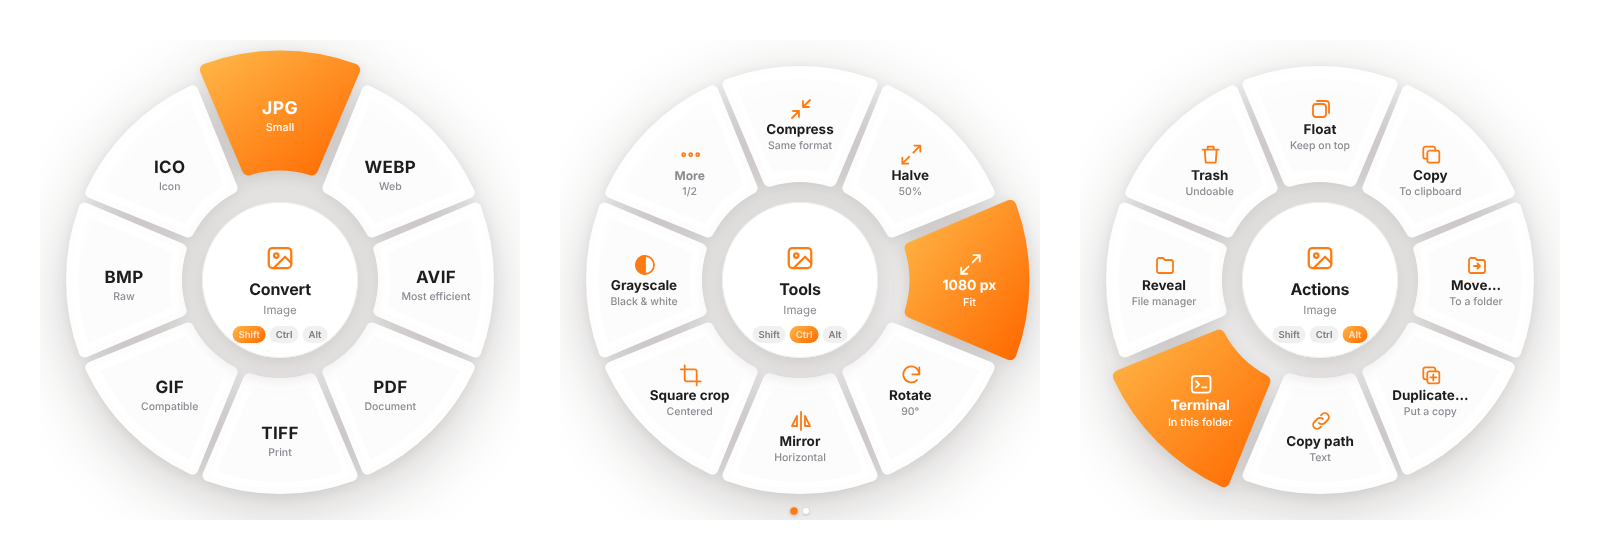
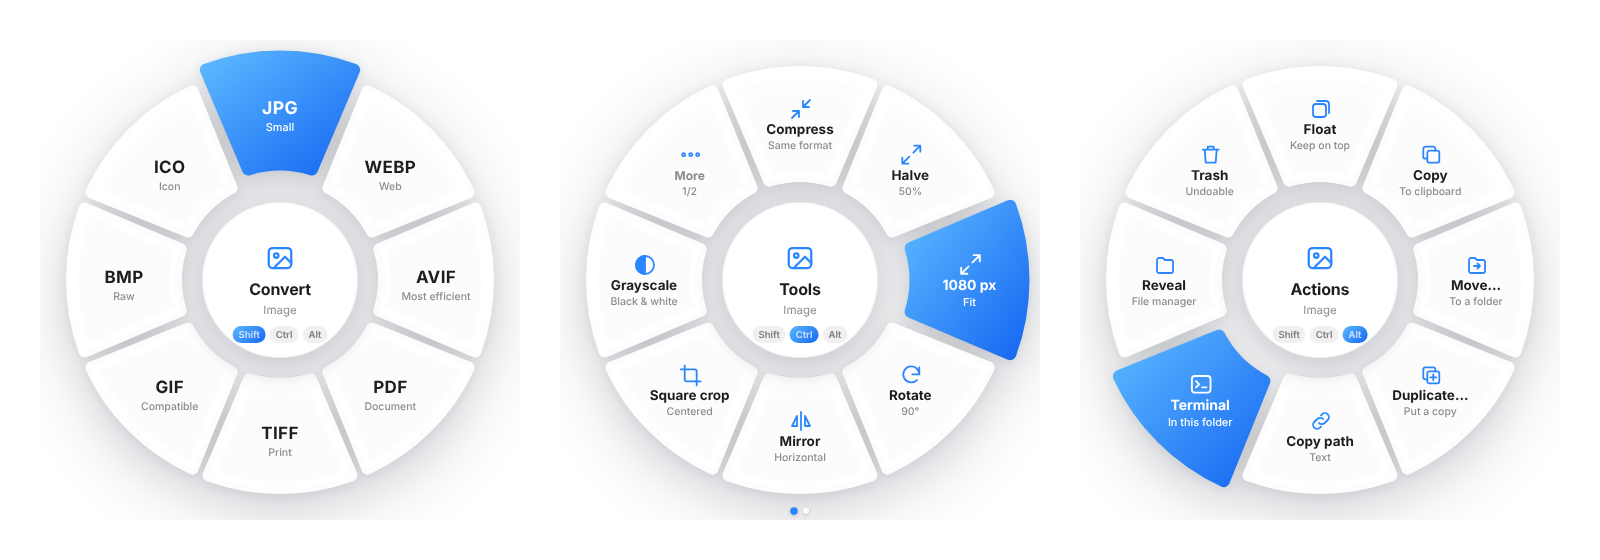
Replace the tangerine with a blue glass drop; blue accent
- New app icon (assets/icon.svg → icon.png): a glass water drop with
  depth, refraction and reflections on a dark tile, with motion streaks.
- New small logo (assets/logo.svg) for the tray (tray.png, tray@2x.png),
  the Wayland bubble and the wheel's idle centre.
- The accent colour moves from orange to blue across the wheel, bubble,
  float window and Markdown→HTML output; shadows are cool instead of warm.
- README screenshots retaken with the new colours.

Claude-Session: https://claude.ai/code/session_01JTcCnwE4RzxDd7YYHU44zU

diff --git a/src/renderer/icons.js b/src/renderer/icons.js
@@ -46,5 +46,5 @@ window.ICONS = {
 window.icon = (name, size = 20, extra = '') =>
   `<svg class="ic ${extra}" width="${size}" height="${size}" viewBox="0 0 24 24" fill="none" stroke="currentColor" stroke-width="1.8" stroke-linecap="round" stroke-linejoin="round">${window.ICONS[name] || window.ICONS.other}</svg>`;
 
-// Mandalina logosu: turuncu daire + yaprak
-window.TANGERINE = `<svg viewBox="0 0 64 64" width="100%" height="100%"><defs><radialGradient id="tg" cx="35%" cy="30%" r="75%"><stop offset="0" stop-color="#FFC15A"/><stop offset=".55" stop-color="#FF8A1F"/><stop offset="1" stop-color="#F25C05"/></radialGradient></defs><circle cx="32" cy="36" r="22" fill="url(#tg)"/><path d="M32 15c0-5 4-9 11-9-1 6-5 9-11 9z" fill="#3DBE6B"/><path d="M32 14v4" stroke="#2E8B4F" stroke-width="2.5" stroke-linecap="round"/><ellipse cx="24" cy="28" rx="5" ry="3" fill="#fff" opacity=".35" transform="rotate(-30 24 28)"/></svg>`;
+// Damla logosu (assets/logo.svg ile aynı)
+window.LOGO = `<svg viewBox="0 0 64 64" width="100%" height="100%"><defs><path id="sd-drop" d="M-12 -298 Q0 -326 12 -298 C46 -244 145 -82 183 -19 A214 214 0 1 1 -183 -19 C-145 -82 -46 -244 -12 -298 Z"/><path id="sd-lens" transform="translate(26 -4) scale(.78)" d="M-12 -298 Q0 -326 12 -298 C46 -244 145 -82 183 -19 A214 214 0 1 1 -183 -19 C-145 -82 -46 -244 -12 -298 Z"/><clipPath id="sd-dclip"><use href="#sd-drop"/></clipPath><clipPath id="sd-lclip"><use href="#sd-lens"/></clipPath><radialGradient id="sd-body" cx="50" cy="130" r="380" fx="70" fy="170" gradientUnits="userSpaceOnUse"><stop offset="0" stop-color="#6ff0ff"/><stop offset=".3" stop-color="#26b0ff"/><stop offset=".65" stop-color="#0e6cf2"/><stop offset="1" stop-color="#05308f"/></radialGradient><radialGradient id="sd-lensFill" cx="90" cy="150" r="300" gradientUnits="userSpaceOnUse"><stop offset="0" stop-color="#9af4ff" stop-opacity=".95"/><stop offset=".45" stop-color="#3fc4ff" stop-opacity=".8"/><stop offset="1" stop-color="#1468f0" stop-opacity=".55"/></radialGradient><linearGradient id="sd-window" x1="0" y1="0" x2="0" y2="1"><stop offset="0" stop-color="#fff" stop-opacity=".98"/><stop offset=".7" stop-color="#fff" stop-opacity=".35"/><stop offset="1" stop-color="#fff" stop-opacity=".05"/></linearGradient><linearGradient id="sd-rim" x1="0" y1="0" x2="1" y2="1"><stop offset="0" stop-color="#bfe8ff" stop-opacity=".75"/><stop offset=".45" stop-color="#4ab6ff" stop-opacity=".25"/><stop offset="1" stop-color="#d4f7ff" stop-opacity=".95"/></linearGradient><filter id="sd-b24" x="-50%" y="-50%" width="200%" height="200%"><feGaussianBlur stdDeviation="24"/></filter><filter id="sd-b12" x="-50%" y="-50%" width="200%" height="200%"><feGaussianBlur stdDeviation="12"/></filter><filter id="sd-b5" x="-50%" y="-50%" width="200%" height="200%"><feGaussianBlur stdDeviation="5"/></filter><filter id="sd-b2" x="-50%" y="-50%" width="200%" height="200%"><feGaussianBlur stdDeviation="2"/></filter></defs><g transform="translate(32 34) rotate(-8) scale(.088)"><use href="#sd-drop" fill="url(#sd-body)"/><g clip-path="url(#sd-dclip)"><use href="#sd-drop" fill="none" stroke="#021457" stroke-width="80" opacity=".55" filter="url(#sd-b24)"/><use href="#sd-drop" transform="translate(-30 -20)" fill="none" stroke="#021457" stroke-width="60" opacity=".45" filter="url(#sd-b24)"/><use href="#sd-lens" fill="url(#sd-lensFill)" filter="url(#sd-b2)"/><g clip-path="url(#sd-lclip)"><use href="#sd-lens" transform="translate(-18 -22)" fill="none" stroke="#0a3cb8" stroke-width="40" opacity=".55" filter="url(#sd-b12)"/></g><ellipse cx="60" cy="226" rx="140" ry="54" transform="rotate(-12 60 226)" fill="#c9fbff" opacity=".85" filter="url(#sd-b24)"/><path d="M-150 214 C-90 286 90 292 170 186" fill="none" stroke="#effeff" stroke-width="7" stroke-linecap="round" opacity=".9" filter="url(#sd-b2)"/><path d="M-14 -262 C-44 -214 -96 -128 -122 -46 L-86 -36 C-62 -114 -22 -196 4 -240 Z" fill="url(#sd-window)" filter="url(#sd-b2)"/><path d="M-130 -20 L-94 -10 C-100 22 -100 52 -94 84 L-130 78 C-138 46 -138 14 -130 -20 Z" fill="#fff" opacity=".45" filter="url(#sd-b2)"/><path d="M150 -30 C188 22 206 92 198 168" fill="none" stroke="#fff" stroke-width="12" stroke-linecap="round" opacity=".4" filter="url(#sd-b5)"/><circle cx="118" cy="-6" r="15" fill="#fff" filter="url(#sd-b2)"/><circle cx="140" cy="26" r="6" fill="#fff" opacity=".85"/></g><use href="#sd-drop" fill="none" stroke="url(#sd-rim)" stroke-width="12"/></g></svg>`;

diff --git a/src/renderer/wheel.css b/src/renderer/wheel.css
@@ -7,9 +7,9 @@
   --center: rgba(255, 255, 255, 0.97);
   --chip: rgba(0, 0, 0, 0.06);
   --chip-text: #55555c;
-  --shadow: rgba(30, 20, 10, 0.22);
-  --accent: #ff7a12;
-  --accent-2: #ff5a00;
+  --shadow: rgba(10, 20, 40, 0.22);
+  --accent: #2a86ff;
+  --accent-2: #0b57e0;
   --ok: #2fb36b;
   --err: #e5484d;
   --ease-spring: cubic-bezier(0.2, 1.35, 0.4, 1);
@@ -113,7 +113,7 @@ html, body {
 #catIcon.logo { width: 40px; height: 40px; }
 #title { font-size: 16px; font-weight: 700; letter-spacing: -0.01em; }
 #subtitle { font-size: 11.5px; color: var(--muted); max-width: 120px; white-space: nowrap; overflow: hidden; text-overflow: ellipsis; }
-#pct { font-size: 28px; font-weight: 750; letter-spacing: -0.03em; font-variant-numeric: tabular-nums; background: linear-gradient(135deg, #ffb547, #ff5a00); -webkit-background-clip: text; color: transparent; }
+#pct { font-size: 28px; font-weight: 750; letter-spacing: -0.03em; font-variant-numeric: tabular-nums; background: linear-gradient(135deg, #5cb8ff, #0b57e0); -webkit-background-clip: text; color: transparent; }
 #busyLabel { font-size: 11.5px; color: var(--muted); }
 
 /* ---------- Mod çipleri (merkezin altında) ---------- */
@@ -127,7 +127,7 @@ html, body {
   display: flex; gap: 3px; align-items: center; transition: background 200ms ease, color 200ms ease;
 }
 .mode kbd { font: inherit; opacity: 0.75; }
-.mode.active { background: linear-gradient(135deg, #ffb547, #ff6a00); color: #fff; }
+.mode.active { background: linear-gradient(135deg, #5cb8ff, #1668f2); color: #fff; }
 
 #pages { position: absolute; left: 50%; bottom: 6px; transform: translateX(-50%); display: flex; gap: 6px; }
 #pages i { width: 6px; height: 6px; border-radius: 50%; background: var(--seg); box-shadow: 0 1px 3px var(--shadow); transition: background 200ms ease, transform 200ms ease; }
@@ -147,7 +147,7 @@ html, body {
 
 #resultIcon {
   width: 52px; height: 52px; margin: 0 auto 10px; border-radius: 50%; display: grid; place-items: center; color: #fff;
-  background: linear-gradient(135deg, #ffb547, #ff6a00); box-shadow: 0 8px 20px rgba(255, 106, 0, 0.35);
+  background: linear-gradient(135deg, #5cb8ff, #1668f2); box-shadow: 0 8px 20px rgba(22, 104, 242, 0.35);
 }
 #resultIcon svg { width: 28px; height: 28px; stroke-width: 2.6; }
 #resultIcon .ic path { stroke-dasharray: 30; stroke-dashoffset: 30; animation: draw 420ms 160ms var(--ease-out) forwards; }
@@ -160,13 +160,13 @@ html, body {
   font: inherit; font-size: 12px; font-weight: 600; border: 0; border-radius: 999px; padding: 7px 12px; cursor: pointer;
   background: var(--chip); color: var(--text); transition: transform 150ms var(--ease-spring), background 150ms ease;
 }
-#resultActions button:hover { background: linear-gradient(135deg, #ffb547, #ff6a00); color: #fff; transform: translateY(-1px); }
+#resultActions button:hover { background: linear-gradient(135deg, #5cb8ff, #1668f2); color: #fff; transform: translateY(-1px); }
 #resultHint { font-size: 10.5px; color: var(--muted); margin-top: 10px; }
 #result.noout #resultActions, #result.noout #resultHint, #result.error #resultHint, #result.error #btnOpen { display: none; }
 
-/* Mandalina patlaması */
+/* Damla patlaması */
 #burst { position: absolute; left: 50%; top: 50%; width: 0; height: 0; pointer-events: none; }
-#burst i { position: absolute; width: 10px; height: 10px; margin: -5px; border-radius: 50%; background: linear-gradient(135deg, #ffc15a, #ff6a00); animation: fly 700ms var(--ease-out) forwards; }
+#burst i { position: absolute; width: 10px; height: 10px; margin: -5px; border-radius: 50%; background: linear-gradient(135deg, #7cc8ff, #1668f2); animation: fly 700ms var(--ease-out) forwards; }
 #burst i.leaf { background: #3dbe6b; border-radius: 0 60% 0 60%; }
 @keyframes fly {
   from { transform: translate(0, 0) scale(1); opacity: 1; }

diff --git a/src/renderer/float.html b/src/renderer/float.html
@@ -5,7 +5,7 @@
 <meta http-equiv="Content-Security-Policy" content="default-src 'self'; script-src 'self'; style-src 'self' 'unsafe-inline'; img-src file: data:; media-src file:">
 <title>ShiftDrop</title>
 <style>
-  :root { --bg: rgba(255,255,255,.96); --text: #1d1d1f; --muted: #8b8b92; --shadow: rgba(30,20,10,.25); --chip: rgba(0,0,0,.06); }
+  :root { --bg: rgba(255,255,255,.96); --text: #1d1d1f; --muted: #8b8b92; --shadow: rgba(10,20,40,.25); --chip: rgba(0,0,0,.06); }
   @media (prefers-color-scheme: dark) { :root { --bg: rgba(34,34,38,.96); --text: #f5f5f7; --muted: #9a9aa2; --shadow: rgba(0,0,0,.55); --chip: rgba(255,255,255,.08); } }
   html, body { margin: 0; height: 100%; background: transparent; overflow: hidden; font-family: "Inter", "Cantarell", "Ubuntu", system-ui, sans-serif; color: var(--text); user-select: none; }
   #card {
@@ -16,12 +16,12 @@
   @keyframes pop { from { transform: scale(.6); opacity: 0; } to { transform: scale(1); opacity: 1; } }
   #preview { flex: 1; display: grid; place-items: center; margin: 10px 10px 0; border-radius: 14px; overflow: hidden; background: var(--chip); -webkit-app-region: no-drag; cursor: grab; }
   #preview img, #preview video { max-width: 100%; max-height: 100%; object-fit: contain; display: block; }
-  #preview .big { width: 64px; height: 64px; color: #ff7a12; }
+  #preview .big { width: 64px; height: 64px; color: #2a86ff; }
   #preview .ext { font-weight: 800; font-size: 13px; color: var(--muted); margin-top: 4px; text-align: center; }
   #bar { display: flex; align-items: center; gap: 6px; padding: 8px 10px 10px 14px; }
   #name { flex: 1; font-size: 12px; font-weight: 600; white-space: nowrap; overflow: hidden; text-overflow: ellipsis; }
   button { -webkit-app-region: no-drag; border: 0; background: var(--chip); color: var(--text); width: 26px; height: 26px; border-radius: 50%; display: grid; place-items: center; cursor: pointer; transition: background 150ms ease; }
-  button:hover { background: linear-gradient(135deg,#ffb547,#ff6a00); color: #fff; }
+  button:hover { background: linear-gradient(135deg,#5cb8ff,#1668f2); color: #fff; }
   button svg { width: 14px; height: 14px; }
 </style>
 </head>

diff --git a/src/engine.js b/src/engine.js
@@ -502,7 +502,7 @@ function markdownToHtml(md, title) {
     if (/^```/.test(line)) { flushPara(); closeList(); code = ''; } else if ((m = line.match(/^(#{1,6})\s+(.*)/))) { flushPara(); closeList(); html += `<h${m[1].length}>${inline(m[2])}</h${m[1].length}>\n`; } else if ((m = line.match(/^\s*[-*+]\s+(.*)/))) { flushPara(); if (list !== 'ul') { closeList(); html += '<ul>\n'; list = 'ul'; } html += `<li>${inline(m[1])}</li>\n`; } else if ((m = line.match(/^\s*\d+[.)]\s+(.*)/))) { flushPara(); if (list !== 'ol') { closeList(); html += '<ol>\n'; list = 'ol'; } html += `<li>${inline(m[1])}</li>\n`; } else if ((m = line.match(/^>\s?(.*)/))) { flushPara(); closeList(); html += `<blockquote>${inline(m[1])}</blockquote>\n`; } else if (/^(-{3,}|\*{3,})$/.test(line.trim())) { flushPara(); closeList(); html += '<hr>\n'; } else if (!line.trim()) { flushPara(); closeList(); } else para.push(line.trim());
   }
   flushPara(); closeList();
-  return `<!doctype html>\n<html><head><meta charset="utf-8"><title>${esc(title)}</title>\n<style>body{font:16px/1.65 system-ui,sans-serif;max-width:760px;margin:48px auto;padding:0 20px;color:#222}code{background:#f3f1ee;padding:2px 5px;border-radius:4px}pre{background:#f3f1ee;padding:14px;border-radius:8px;overflow:auto}blockquote{border-left:3px solid #ff8a1f;margin:0;padding-left:14px;color:#555}</style></head>\n<body>\n${html}</body></html>\n`;
+  return `<!doctype html>\n<html><head><meta charset="utf-8"><title>${esc(title)}</title>\n<style>body{font:16px/1.65 system-ui,sans-serif;max-width:760px;margin:48px auto;padding:0 20px;color:#222}code{background:#f3f1ee;padding:2px 5px;border-radius:4px}pre{background:#f3f1ee;padding:14px;border-radius:8px;overflow:auto}blockquote{border-left:3px solid #2a86ff;margin:0;padding-left:14px;color:#555}</style></head>\n<body>\n${html}</body></html>\n`;
 }
 
 async function documentConvert(src, to, dir, base) {

diff --git a/src/renderer/bubble.html b/src/renderer/bubble.html
@@ -5,7 +5,7 @@
 <meta http-equiv="Content-Security-Policy" content="default-src 'self'; script-src 'self'; style-src 'self' 'unsafe-inline'">
 <title>ShiftDrop balon</title>
 <style>
-  :root { --bg: rgba(255,255,255,.95); --shadow: rgba(30,20,10,.25); --muted: #8b8b92; }
+  :root { --bg: rgba(255,255,255,.95); --shadow: rgba(10,20,40,.25); --muted: #8b8b92; }
   @media (prefers-color-scheme: dark) { :root { --bg: rgba(38,38,42,.95); --shadow: rgba(0,0,0,.55); --muted: #9a9aa2; } }
   html, body { margin: 0; width: 64px; height: 132px; overflow: hidden; background: transparent; user-select: none; }
   #tab {
@@ -18,9 +18,9 @@
   body:hover #tab { right: -14px; }
   body.hot #tab { right: -6px; transform: scale(1.08); }
   body.hot #logo { transform: rotate(-18deg) scale(1.15); }
-  #pulse { position: absolute; inset: 0; border-radius: inherit; box-shadow: 0 0 0 0 rgba(255,122,18,.5); }
+  #pulse { position: absolute; inset: 0; border-radius: inherit; box-shadow: 0 0 0 0 rgba(42,134,255,.5); }
   body.hot #pulse { animation: pulse 900ms ease-out infinite; }
-  @keyframes pulse { to { box-shadow: 0 0 0 14px rgba(255,122,18,0); } }
+  @keyframes pulse { to { box-shadow: 0 0 0 14px rgba(42,134,255,0); } }
 </style>
 </head>
 <body>

diff --git a/src/renderer/wheel.html b/src/renderer/wheel.html
@@ -11,12 +11,12 @@
     <svg id="ring" viewBox="0 0 480 480" width="480" height="480" aria-hidden="true">
       <defs>
         <linearGradient id="accent" x1="0" y1="0" x2="1" y2="1">
-          <stop offset="0" stop-color="#FFB547"/>
-          <stop offset="1" stop-color="#FF6A00"/>
+          <stop offset="0" stop-color="#5cb8ff"/>
+          <stop offset="1" stop-color="#1668f2"/>
         </linearGradient>
         <linearGradient id="progressGrad" x1="0" y1="0" x2="1" y2="1">
-          <stop offset="0" stop-color="#FFC15A"/>
-          <stop offset="1" stop-color="#FF5A00"/>
+          <stop offset="0" stop-color="#7cc8ff"/>
+          <stop offset="1" stop-color="#0b57e0"/>
         </linearGradient>
       </defs>
       <g id="segments"></g>

diff --git a/src/renderer/wheel.js b/src/renderer/wheel.js
@@ -170,7 +170,7 @@ function renderModes() {
   $('title').textContent = st.data && !st.data.items.length && st.phase !== 'pick' ? t('Bırak') : MODE_NAME[st.mode];
   const cat = st.data?.cat || 'other';
   const icon = $('catIcon');
-  if (!st.data) { icon.className = 'logo'; icon.innerHTML = window.TANGERINE; } else { icon.className = ''; icon.innerHTML = window.icon(cat, 30); }
+  if (!st.data) { icon.className = 'logo'; icon.innerHTML = window.LOGO; } else { icon.className = ''; icon.innerHTML = window.icon(cat, 30); }
   let sub;
   if (st.phase === 'pick' && !st.paths) sub = t('Dosyayı buraya bırak');
   else if (!st.data) sub = t('Dosya bekleniyor');

diff --git a/src/renderer/bubble.js b/src/renderer/bubble.js
@@ -1,6 +1,6 @@
 const api = window.shiftdrop;
 document.getElementById('tab').title = api.t('Dosyayı buraya sürükle');
-document.getElementById('logo').innerHTML = window.TANGERINE;
+document.getElementById('logo').innerHTML = window.LOGO;
 const modeFrom = (e) => (e.ctrlKey ? 'tools' : e.altKey ? 'actions' : 'convert');
 let sent = false;
 document.addEventListener('dragenter', (e) => {

diff --git a/README.md b/README.md
@@ -78,7 +78,7 @@ Keys pressed while dragging are detected system-wide, with no extra permissions.
 ## X11 and Wayland
 
 - **X11**: Keys pressed while dragging are detected system-wide, and the wheel opens at your cursor.
-- **Wayland**: For security, Wayland doesn't let apps listen to keys pressed in other apps. To work around this, a small **tangerine bubble** sits on the right edge of the screen. Drag a file onto the bubble and the wheel opens there. Shift, Ctrl and Alt still work once the wheel is open, because the cursor is now over ShiftDrop. You can drag the bubble up and down along the edge.
+- **Wayland**: For security, Wayland doesn't let apps listen to keys pressed in other apps. To work around this, a small **drop bubble** sits on the right edge of the screen. Drag a file onto the bubble and the wheel opens there. Shift, Ctrl and Alt still work once the wheel is open, because the cursor is now over ShiftDrop. You can drag the bubble up and down along the edge.
 
 On X11 you can also turn the bubble on from the tray menu. The tray menu also lets you change key bindings and start the app at login. Fallback shortcut: **Ctrl+Alt+Space** opens the wheel under the cursor. Drop a file onto it, then click a slice.
 
